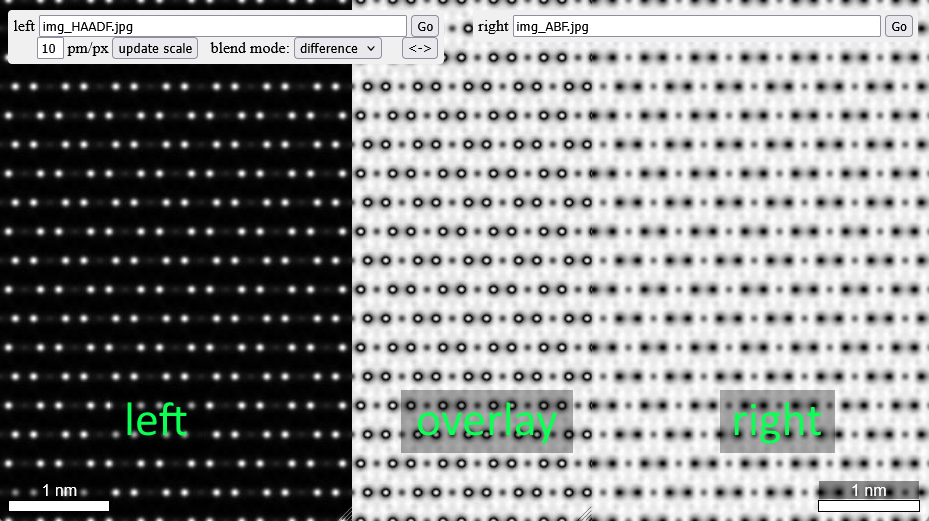
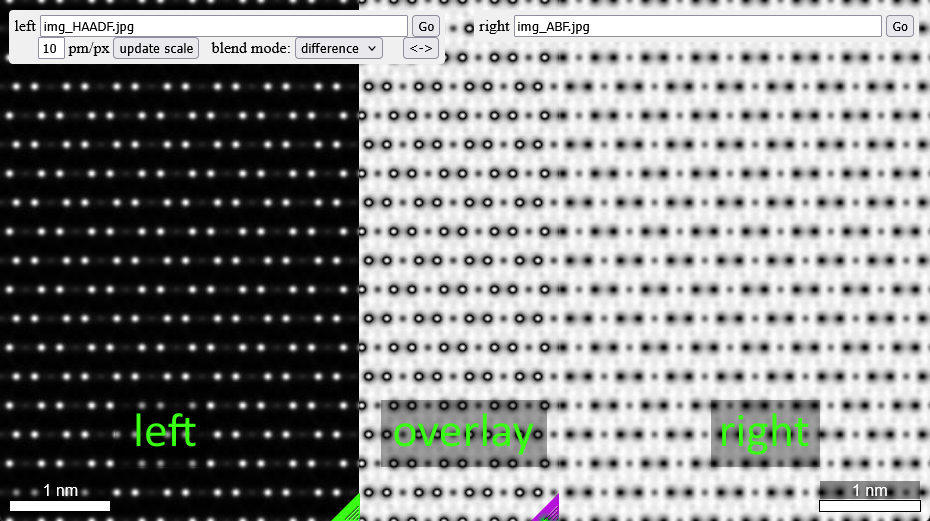
highlighted adjustment handles for panel resizing

diff --git a/index.html b/index.html
@@ -32,6 +32,19 @@ margin: 0;
 gap: 0;
 column-gap: 0;
 }
+#left-container::after {
+content: '';
+position: absolute;
+right: 0;
+bottom: 0;
+width: 0;
+height: 0;
+border-left: 14px solid transparent;
+border-top: 14px solid transparent;
+border-right: 14px solid #39ff14;
+border-bottom: 14px solid #39ff14;
+pointer-events: none;
+}
 #left {
 background-color: #2b2b2b;
 background-image: url("img_HAADF.jpg");
@@ -47,6 +60,19 @@ image-rendering: pixelated;
 z-index: 3;
 gap: 0;
 column-gap: 0;
+}
+#left::after {
+content: '';
+position: absolute;
+right: 0;
+bottom: 0;
+width: 0;
+height: 0;
+border-left: 14px solid transparent;
+border-top: 14px solid transparent;
+border-right: 14px solid #39ff14;
+border-bottom: 14px solid #39ff14;
+pointer-events: none;
 }
 #overlap {
 background-color: #2b2b2b;
@@ -64,6 +90,19 @@ mix-blend-mode: normal;
 image-rendering: crisp-edges;
 image-rendering: pixelated;
 z-index: 2;
+}
+#overlap::after {
+content: '';
+position: absolute;
+right: 0;
+bottom: 0;
+width: 0;
+height: 0;
+border-left: 14px solid transparent;
+border-top: 14px solid transparent;
+border-right: 14px solid #39ff14;
+border-bottom: 14px solid #39ff14;
+pointer-events: none;
 }
 #right {
 right: 0px; top: 0px;
